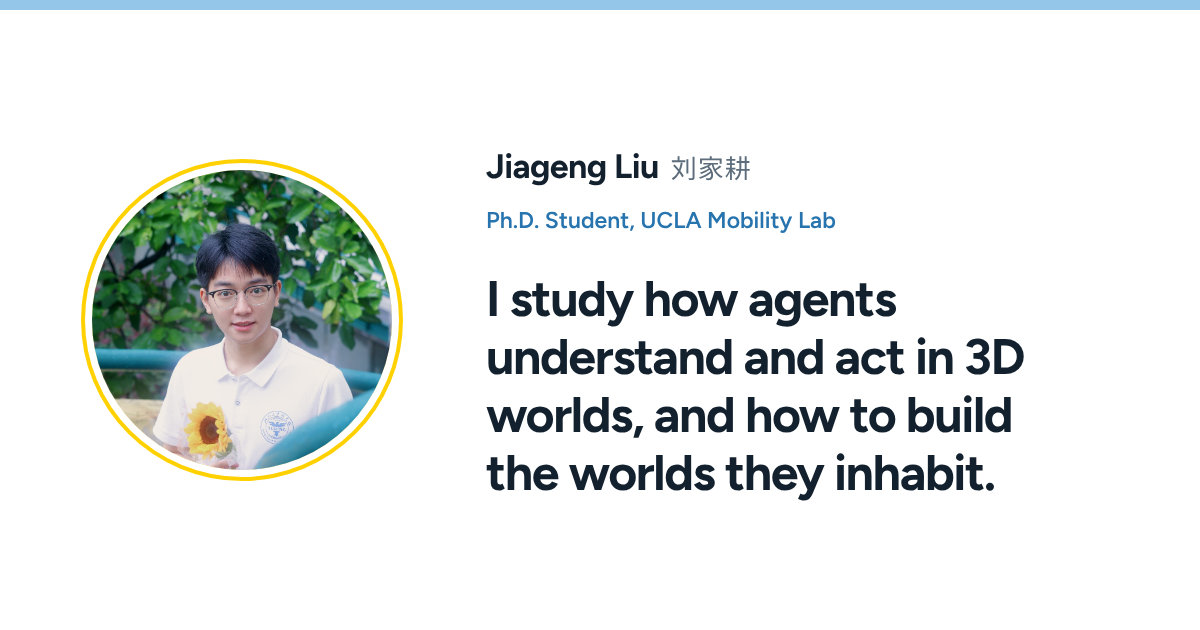
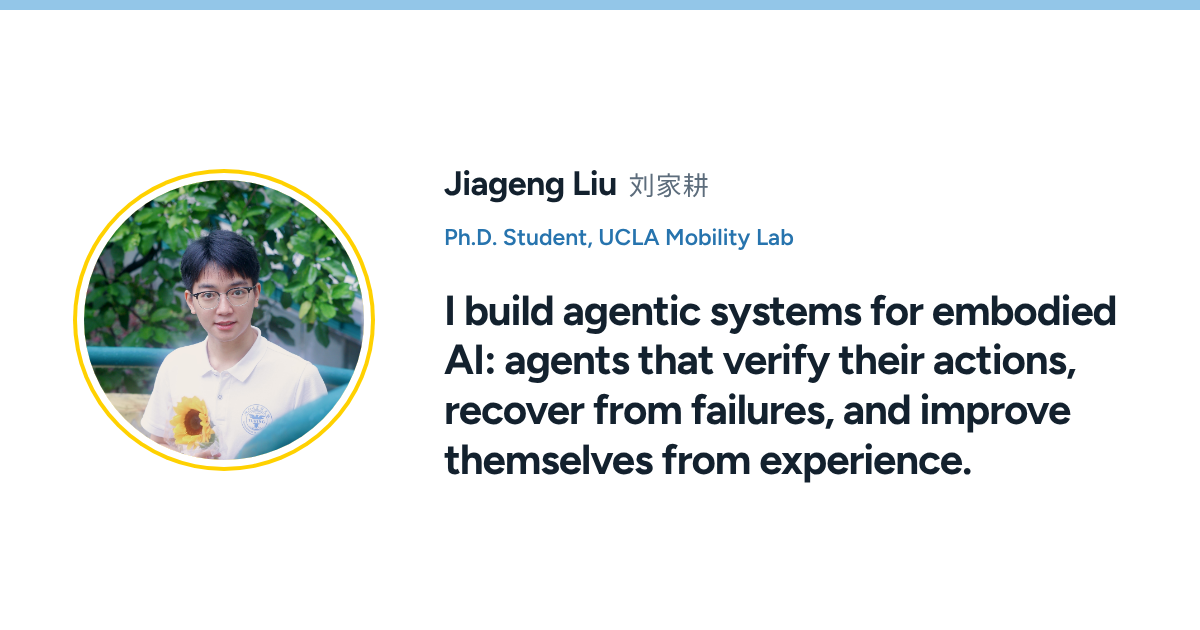
Reposition research statement around agentic systems
Update the opening line, Research intro, page title, description
and share card to the agentic-systems / self-improvement framing.

Claude-Session: https://claude.ai/code/session_01LFmA95Vp6ys9UNWevdChpw

diff --git a/index.html b/index.html
@@ -4,23 +4,23 @@
   <meta charset="utf-8">
   <meta name="viewport" content="width=device-width, initial-scale=1">
   <meta name="author" content="Jiageng Liu">
-  <meta name="description" content="Jiageng Liu is a Ph.D. student at UCLA studying spatial intelligence, embodied agents, and 3D world generation and editing.">
+  <meta name="description" content="Jiageng Liu is a Ph.D. student at UCLA building agentic systems for embodied AI: agents that verify their actions, recover from failures, and improve themselves from experience.">
   <meta name="theme-color" content="#93c6e8">
   <link rel="canonical" href="https://jiagengliu02.github.io/">
   <meta property="og:type" content="website">
   <meta property="og:site_name" content="Jiageng Liu">
-  <meta property="og:title" content="Jiageng Liu | Spatial Intelligence &amp; Embodied AI">
-  <meta property="og:description" content="Jiageng Liu is a Ph.D. student at UCLA studying spatial intelligence, embodied agents, and 3D world generation and editing.">
+  <meta property="og:title" content="Jiageng Liu | Agentic Systems for Embodied AI">
+  <meta property="og:description" content="Jiageng Liu is a Ph.D. student at UCLA building agentic systems for embodied AI: agents that verify their actions, recover from failures, and improve themselves from experience.">
   <meta property="og:url" content="https://jiagengliu02.github.io/">
   <meta property="og:image" content="https://jiagengliu02.github.io/img/og-card.png">
   <meta property="og:image:width" content="1200">
   <meta property="og:image:height" content="630">
-  <meta property="og:image:alt" content="Jiageng Liu, Ph.D. student at UCLA: I study how agents understand and act in 3D worlds, and how to build the worlds they inhabit.">
+  <meta property="og:image:alt" content="Jiageng Liu, Ph.D. student at UCLA: I build agentic systems for embodied AI: agents that verify their actions, recover from failures, and improve themselves from experience.">
   <meta name="twitter:card" content="summary_large_image">
-  <title>Jiageng Liu | Spatial Intelligence &amp; Embodied AI</title>
+  <title>Jiageng Liu | Agentic Systems for Embodied AI</title>
   <link rel="icon" href="img/ucla-favicon.ico" type="image/x-icon">
   <link rel="preload" href="fonts/figtree-latin-variable.woff2" as="font" type="font/woff2" crossorigin>
-  <link rel="stylesheet" href="stylesheet.css?v=f257d01ae465">
+  <link rel="stylesheet" href="stylesheet.css?v=874c166f410d">
 </head>
 <body>
 <a class="skip-link" href="#main">Skip to content</a>
@@ -54,14 +54,14 @@
   <main id="main">
     <section id="about" aria-labelledby="about-heading">
       <h2 id="about-heading" class="visually-hidden">About Me</h2>
-      <p class="lede">I study how agents understand and act in 3D worlds, and how to build the worlds they inhabit.</p>
+      <p class="lede">I build agentic systems for embodied AI: agents that verify their actions, recover from failures, and improve themselves from experience.</p>
       <p>I am a Ph.D. student in the <a href="https://mobility-lab.seas.ucla.edu/">UCLA Mobility Lab</a> at the <a href="https://www.ucla.edu/">University of California, Los Angeles</a>, advised by <a href="https://samueli.ucla.edu/people/jiaqi-ma/">Prof. Jiaqi Ma</a>.</p>
       <p>Previously, I received my M.S. in Computer Science from <a href="https://www.umass.edu/">UMass Amherst</a> and worked closely with <a href="https://faculty.ucmerced.edu/mhyang/">Prof. Ming-Hsuan Yang</a> at UC Merced. I received my B.E. in Artificial Intelligence from the <a href="http://ckc.zju.edu.cn/ckcen/">Chu Kochen Honors College</a> and <a href="http://www.cs.zju.edu.cn/turingclass_en/">Turing Class</a> at <a href="https://www.zju.edu.cn/english/">Zhejiang University</a>, advised by <a href="https://person.zju.edu.cn/zhaozhou">Prof. Zhou Zhao</a>.</p>
     </section>
 
     <section id="research" aria-labelledby="research-heading">
       <div class="section-heading"><h2 id="research-heading">Research</h2><button type="button" id="animation-toggle" hidden>Pause animations</button></div>
-      <p>My research focuses on <strong>spatial intelligence for embodied AI</strong>, following two connected directions:</p>
+      <p>My research focuses on <strong>agentic systems for embodied AI</strong>. I study how to wrap perception and action models in a runtime that reasons, verifies, and recovers in closed loop, and how such systems can improve themselves from experience. Spatial intelligence and 3D world generation are the foundations: agents need to understand space, and they need worlds to practice in. My work follows two connected directions:</p>
       <ol class="research-overview">
         <li><a href="#spatial-intelligence">Spatial Intelligence &amp; Embodied Agents</a><span> — reasoning with imagination, memory, active perception, and feedback.</span></li>
         <li><a href="#world-generation">3D World Generation &amp; Editing</a><span> — building rich, controllable, and spatially consistent scenes.</span></li>

diff --git a/stylesheet.css b/stylesheet.css
@@ -85,7 +85,7 @@ main { min-width: 0; }
 main > section { margin-bottom: 52px; }
 main > section > p { max-width: var(--measure); }
 #about { margin-bottom: 46px; }
-.lede { max-width: 18em; margin: 2px 0 26px; color: var(--strong); font-size: 42px; font-weight: 700; line-height: 1.17; letter-spacing: -1.1px; text-wrap: balance; }
+.lede { max-width: 21em; margin: 2px 0 26px; color: var(--strong); font-size: 38px; font-weight: 700; line-height: 1.17; letter-spacing: -1.1px; text-wrap: balance; }
 .section-heading { display: flex; justify-content: space-between; align-items: center; gap: 16px; padding-bottom: 12px; margin-bottom: 22px; border-bottom: 1px solid var(--line); }
 .section-heading h2 { padding: 0; border: 0; margin: 0; }
 #animation-toggle { background: var(--surface); color: var(--muted); border: 1px solid var(--line); border-radius: 6px; padding: 5px 10px; cursor: pointer; font-size: 12px; white-space: nowrap; }
